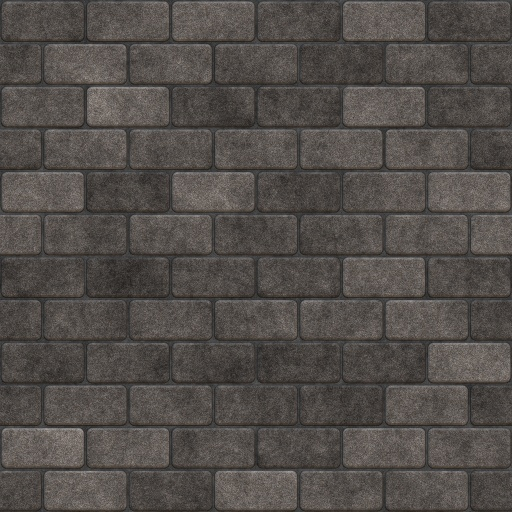
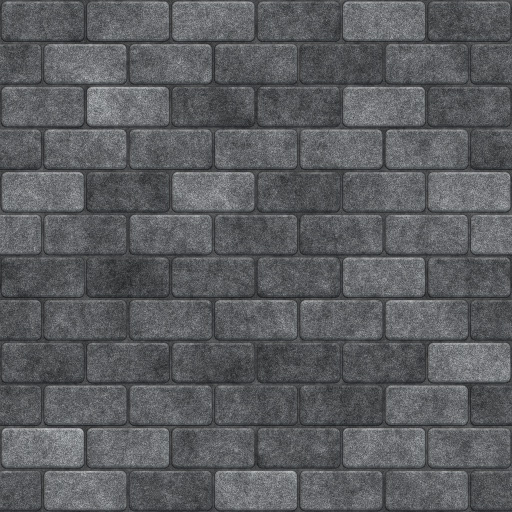
Better assets, polishing and improvements, document head

diff --git a/lib/three/Three.js b/lib/three/Three.js
@@ -6,15 +6,18 @@ const THREEx = {};
 
 const PENTAGON_SIZE = [45, 45, 1];
 const OBJECT_SCALE = 0.04;
-const TP_CAMERA_POSITION = [0, 25, 70];
+const OBJECT_DEFAULT_POSITION = [0, 2.4, 0];
+const OBJECT_DEFAULT_ROTATION = [0, -Math.PI / 2, 0];
+const TP_CAMERA_DEFAULT_POSITION = [0, 15, 80];
 const ZOOM_MIN = 20;
 const ZOOM_MAX = 130;
 const LIGHT_PARAMS = [0xffffff, 4.6, 360];
-const LIGHT_POSITION = [-3.5, 24, 100];
-const FP_CAMERA_POSITION = [0, 2.25, 0];
+const LIGHT_POSITION = [21, 24, 100];
+const FP_CAMERA_Y = 2.5;
 const FP_MOVEMENT_SPEED = 9;
 const FP_CAMERA_SPEED = 0.09;
 const BACKGROUND_IMG_URL = '/images/zurich.jpg';
+const FLOOR_TEXTURE_IMG_URL = '/images/tile.jpg';
 
 class Three {
   constructor() {
@@ -28,6 +31,9 @@ class Three {
     this._floor = null;
     this._object = null;
     this._container = null;
+
+    this._savedOrbitControlsPosition = null;
+    this._savedFirstPersonControlsPosition = null;
   }
 
   async _init() {
@@ -108,7 +114,14 @@ class Three {
     this._orbitControls.maxPolarAngle = Math.PI / 2 - 2 * (Math.PI / 360);
     this._orbitControls.minDistance = ZOOM_MIN;
     this._orbitControls.maxDistance = ZOOM_MAX;
-    this._camera.position.set(...TP_CAMERA_POSITION);
+    this._camera.position.set(...TP_CAMERA_DEFAULT_POSITION);
+
+    if (this._savedThirdPersonControlsPosition) {
+      this._camera.position.set(...this._savedThirdPersonControlsPosition);
+    } else {
+      this._camera.position.set(...TP_CAMERA_DEFAULT_POSITION);
+    }
+
     this._orbitControls.target.set(0, 0.5, 0);
 
     this._orbitControls.update();
@@ -121,7 +134,17 @@ class Three {
     );
     this._firstPersonControls.movementSpeed = FP_MOVEMENT_SPEED;
     this._firstPersonControls.lookSpeed = FP_CAMERA_SPEED;
-    this._camera.position.set(...FP_CAMERA_POSITION);
+
+    if (this._savedFirstPersonControlsPosition) {
+      this._camera.position.set(...this._savedFirstPersonControlsPosition);
+    } else {
+      this._camera.position.set(
+        ...[0, FP_CAMERA_Y, this._object.position.z + 30]
+      );
+    }
+
+    this._firstPersonControls.lookAt(this._object.position);
+
     this._firstPersonControls.update(this._clock.getDelta());
   }
 
@@ -151,8 +174,7 @@ class Three {
   _initFloor() {
     const floorGeometry = new THREE.CylinderGeometry(...PENTAGON_SIZE, 5);
 
-    const floorTexture = new THREE.TextureLoader().load('/images/tile.jpg');
-    floorTexture.rotation = Math.PI / 2;
+    const floorTexture = new THREE.TextureLoader().load(FLOOR_TEXTURE_IMG_URL);
     floorTexture.wrapS = floorTexture.wrapT = THREE.RepeatWrapping;
     floorTexture.repeat.set(3.8, 3.8);
     floorTexture.anisotropy = new THREE.WebGLRenderer().capabilities.getMaxAnisotropy();
@@ -182,6 +204,9 @@ class Three {
         this._object.scale.x *= OBJECT_SCALE;
         this._object.scale.y *= OBJECT_SCALE;
         this._object.scale.z *= OBJECT_SCALE;
+
+        this._object.position.set(...OBJECT_DEFAULT_POSITION);
+        this._object.rotation.set(...OBJECT_DEFAULT_ROTATION);
 
         this._object.traverse(function (node) {
           if (node instanceof THREE.Mesh) {
@@ -240,16 +265,24 @@ class Three {
   }
 
   async _setFirstPersonView() {
-    if (this._orbitControls) this._orbitControls.dispose();
-    this._orbitControls = null;
+    const { x, y, z } = this._camera.position;
+    this._savedThirdPersonControlsPosition = [x, y, z];
+    if (this._orbitControls) {
+      this._orbitControls.dispose();
+      this._orbitControls = null;
+    }
     if (this._transformControls) this._transformControls.detach();
 
     await this._initFirstPersonControls();
   }
 
   async _setThirdPersonView(mode) {
-    if (this._firstPersonControls) this._firstPersonControls.dispose();
-    this._firstPersonControls = null;
+    const { x, y, z } = this._camera.position;
+    this._savedFirstPersonControlsPosition = [x, y, z];
+    if (this._firstPersonControls) {
+      this._firstPersonControls.dispose();
+      this._firstPersonControls = null;
+    }
     if (this._transformControls) {
       this._transformControls.setMode(mode);
       this._transformControls.attach(this._object);
@@ -271,8 +304,8 @@ class Three {
   }
 
   _resetObjectTransform() {
-    this._setObjectTargetPositon(0, 0, 0);
-    this._object.rotation.set(0, 0, 0);
+    this._setObjectTargetPositon(...OBJECT_DEFAULT_POSITION);
+    this._object.rotation.set(...OBJECT_DEFAULT_ROTATION);
   }
 
   // Might need this later

diff --git a/lib/three/updateCustomAnimations.js b/lib/three/updateCustomAnimations.js
@@ -1,3 +1,5 @@
+const UPDATE_OBJECT_TRANSFORM_SPEED = 3;
+
 const hasReachedTarget = (value, targetValue, accuracy) => {
   const parsedValue = parseFloat(parseFloat(value).toFixed(2));
 
@@ -40,6 +42,8 @@ const updateObjectTransform = (object, key, targetKey, speed, accuracy) => {
     hasReachedTarget(valueXYZ.y, targetValueXYZ.y, accuracy) &&
     hasReachedTarget(valueXYZ.z, targetValueXYZ.z, accuracy)
   ) {
+    const { x, y, z } = object[targetKey];
+    object[key].set(x, y, z);
     delete object[targetKey];
   }
 };
@@ -50,8 +54,8 @@ function updateCustomAnimations() {
       this._object,
       'position',
       'targetPosition',
-      0.75,
-      0.75
+      UPDATE_OBJECT_TRANSFORM_SPEED,
+      UPDATE_OBJECT_TRANSFORM_SPEED
     );
 }
 

diff --git a/pages/index.js b/pages/index.js
@@ -1,5 +1,6 @@
 import { useContext, useEffect } from 'react';
 import GlobalContext from '../contexts/GlobalContext';
+import Head from '../components/Head';
 import UIControlBar from '../components/UIControlBar';
 import PentagonController from '../lib/PentagonController';
 
@@ -16,6 +17,7 @@ const Home = () => {
 
   return (
     <div className={styles.container}>
+      <Head />
       <UIControlBar />
       <div id="pentagon-app"></div>
     </div>

diff --git a/lib/three/boundaries.js b/lib/three/boundaries.js
@@ -1,8 +1,8 @@
 const X_LIMIT = { min: -41, max: 41 };
 const Y_LIMIT = { min: 0, max: 5 };
-const Z_LIMIT = { min: -38, max: 42 };
+const Z_LIMIT = { min: -38, max: 36 };
 
-const FP_Y_LIMIT = 2.25;
+const FP_Y_LIMIT = 2.5;
 
 function limitFirstPersonControls(camera) {
   const { position } = camera;

diff --git a/components/Head/index.js b/components/Head/index.js
@@ -1,0 +1,12 @@
+import NextHead from 'next/head';
+
+const Head = () => {
+  return (
+    <NextHead>
+      <meta name="viewport" content="initial-scale=1.0, width=device-width" />
+      <title>Pentagon | A simple Digital Reality demo</title>
+    </NextHead>
+  );
+};
+
+export default Head;
